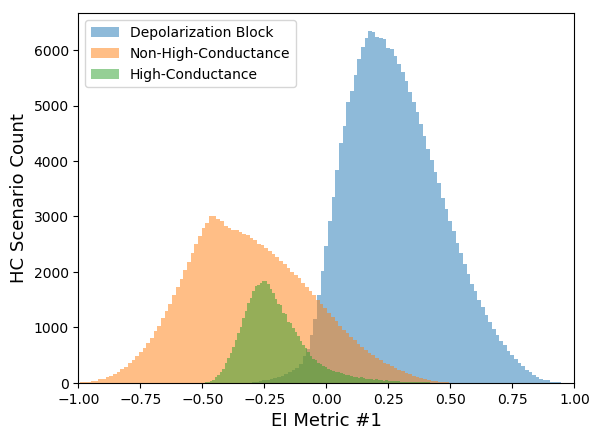
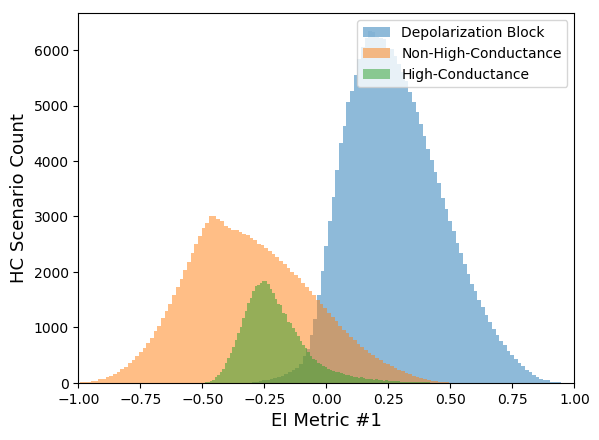
HC_DB_EIMetrics Edit

Changed region(s): [[0.571, 0.0591, 0.9616, 0.2068], [0.1503, 0.0591, 0.4808, 0.2068]]

diff --git a/HC_DB_Analyses/HC_DB_EIMetrics/SDprox2/PlotResults.py b/HC_DB_Analyses/HC_DB_EIMetrics/SDprox2/PlotResults.py
@@ -165,7 +165,7 @@ pyplot.close()
 pyplot.hist(DB_EI1_MetricVec, 100, alpha=0.5, label='Depolarization Block')
 pyplot.hist(NHC_EI1_MetricVec, 100, alpha=0.5, label='Non-High-Conductance')
 pyplot.hist(HC_EI1_MetricVec, 100, alpha=0.5, label='High-Conductance')
-pyplot.legend(loc='upper left')
+pyplot.legend(loc='upper right')
 pyplot.xlim(-1,1)
 pyplot.xlabel("EI Metric #1", fontsize=font_size)
 pyplot.ylabel("HC Scenario Count", fontsize=font_size)
@@ -178,11 +178,22 @@ pyplot.close()
 pyplot.hist(DB_EI2_MetricVec, 100, alpha=0.5, label='Depolarization Block')
 pyplot.hist(NHC_EI2_MetricVec, 100, alpha=0.5, label='Non-High-Conductance')
 pyplot.hist(HC_EI2_MetricVec, 100, alpha=0.5, label='High-Conductance')
-pyplot.legend(loc='upper left')
+pyplot.legend(loc='upper right')
 pyplot.xlim(-50000,50000)
 pyplot.xlabel("EI Metric #2", fontsize=font_size)
 pyplot.ylabel("HC Scenario Count", fontsize=font_size)
 pyplot.savefig(Case + "_EI2MetricHist.png", bbox_inches='tight')
+pyplot.gcf().clear()
+pyplot.cla()
+pyplot.clf()
+pyplot.close()
+
+pyplot.hist(HC_EI2_MetricVec, 100, alpha=0.5, label='High-Conductance')
+pyplot.legend(loc='upper right')
+pyplot.xlim(numpy.amin(HC_EI2_MetricVec),-numpy.amin(HC_EI2_MetricVec))
+pyplot.xlabel("EI Metric #2", fontsize=font_size)
+pyplot.ylabel("HC Scenario Count", fontsize=font_size)
+pyplot.savefig(Case + "_EI2MetricHist_HCOnly.png", bbox_inches='tight')
 pyplot.gcf().clear()
 pyplot.cla()
 pyplot.clf()
@@ -253,6 +264,35 @@ pyplot.xlim(-50000,50000)
 pyplot.xlabel("EI Metric #2", fontsize=font_size)
 pyplot.ylabel("HC Scenario Count", fontsize=font_size)
 pyplot.savefig(Case + "_HCEI2MetricPoolHist.png", bbox_inches='tight')
+pyplot.gcf().clear()
+pyplot.cla()
+pyplot.clf()
+pyplot.close()
+
+for x in range(2,18):
+	EI2MetricVec = numpy.zeros(len(HC_PoolStrings_HC_PoolNums[x]), dtype = numpy.int)
+	for y in range(len(HC_PoolStrings_HC_PoolNums[x])):
+		EI2MetricVec[y] = HC_PoolStrings_HC_PoolNums[x][y][5]
+	pyplot.hist(EI2MetricVec, bin_number, alpha=0.5, label=HC_PoolStrings[x-2])
+pyplot.legend(loc='upper right')
+pyplot.xlim(numpy.amin(EI2MetricVec),-numpy.amin(EI2MetricVec))
+pyplot.xlabel("EI Metric #2", fontsize=font_size)
+pyplot.ylabel("HC Scenario Count", fontsize=font_size)
+pyplot.savefig(Case + "_HCEI2MetricPoolHist_Zoomed.png", bbox_inches='tight')
+pyplot.gcf().clear()
+pyplot.cla()
+pyplot.clf()
+pyplot.close()
+
+EI2MetricVec = numpy.zeros(len(HC_PoolStrings_HC_PoolNums[2]), dtype = numpy.int)
+for y in range(len(HC_PoolStrings_HC_PoolNums[2])):
+	EI2MetricVec[y] = HC_PoolStrings_HC_PoolNums[2][y][5]
+pyplot.hist(EI2MetricVec, bin_number, alpha=0.5, label=HC_PoolStrings[0])
+pyplot.legend(loc='upper right')
+pyplot.xlim(numpy.amin(EI2MetricVec),-numpy.amin(EI2MetricVec))
+pyplot.xlabel("EI Metric #2", fontsize=font_size)
+pyplot.ylabel("HC Scenario Count", fontsize=font_size)
+pyplot.savefig(Case + "_HCEI2MetricPoolHist_LNI_LNE_LIS_LES.png", bbox_inches='tight')
 pyplot.gcf().clear()
 pyplot.cla()
 pyplot.clf()

diff --git a/HC_DB_Analyses/HC_DB_EIMetrics/SDprox1/PlotResults.py b/HC_DB_Analyses/HC_DB_EIMetrics/SDprox1/PlotResults.py
@@ -188,6 +188,17 @@ pyplot.cla()
 pyplot.clf()
 pyplot.close()
 
+pyplot.hist(HC_EI2_MetricVec, 100, alpha=0.5, label='High-Conductance')
+pyplot.legend(loc='upper right')
+pyplot.xlim(numpy.amin(HC_EI2_MetricVec),-numpy.amin(HC_EI2_MetricVec))
+pyplot.xlabel("EI Metric #2", fontsize=font_size)
+pyplot.ylabel("HC Scenario Count", fontsize=font_size)
+pyplot.savefig(Case + "_EI2MetricHist_HCOnly.png", bbox_inches='tight')
+pyplot.gcf().clear()
+pyplot.cla()
+pyplot.clf()
+pyplot.close()
+
 # Divide HC models into pools & print numbers
 execfile("PoolDivide.py")
 print '-------------------------------------------------'
@@ -253,6 +264,35 @@ pyplot.xlim(-50000,50000)
 pyplot.xlabel("EI Metric #2", fontsize=font_size)
 pyplot.ylabel("HC Scenario Count", fontsize=font_size)
 pyplot.savefig(Case + "_HCEI2MetricPoolHist.png", bbox_inches='tight')
+pyplot.gcf().clear()
+pyplot.cla()
+pyplot.clf()
+pyplot.close()
+
+for x in range(2,18):
+	EI2MetricVec = numpy.zeros(len(HC_PoolStrings_HC_PoolNums[x]), dtype = numpy.int)
+	for y in range(len(HC_PoolStrings_HC_PoolNums[x])):
+		EI2MetricVec[y] = HC_PoolStrings_HC_PoolNums[x][y][5]
+	pyplot.hist(EI2MetricVec, bin_number, alpha=0.5, label=HC_PoolStrings[x-2])
+pyplot.legend(loc='upper right')
+pyplot.xlim(numpy.amin(EI2MetricVec),-numpy.amin(EI2MetricVec))
+pyplot.xlabel("EI Metric #2", fontsize=font_size)
+pyplot.ylabel("HC Scenario Count", fontsize=font_size)
+pyplot.savefig(Case + "_HCEI2MetricPoolHist_Zoomed.png", bbox_inches='tight')
+pyplot.gcf().clear()
+pyplot.cla()
+pyplot.clf()
+pyplot.close()
+
+EI2MetricVec = numpy.zeros(len(HC_PoolStrings_HC_PoolNums[2]), dtype = numpy.int)
+for y in range(len(HC_PoolStrings_HC_PoolNums[2])):
+	EI2MetricVec[y] = HC_PoolStrings_HC_PoolNums[2][y][5]
+pyplot.hist(EI2MetricVec, bin_number, alpha=0.5, label=HC_PoolStrings[0])
+pyplot.legend(loc='upper right')
+pyplot.xlim(numpy.amin(EI2MetricVec),-numpy.amin(EI2MetricVec))
+pyplot.xlabel("EI Metric #2", fontsize=font_size)
+pyplot.ylabel("HC Scenario Count", fontsize=font_size)
+pyplot.savefig(Case + "_HCEI2MetricPoolHist_LNI_LNE_LIS_LES.png", bbox_inches='tight')
 pyplot.gcf().clear()
 pyplot.cla()
 pyplot.clf()
